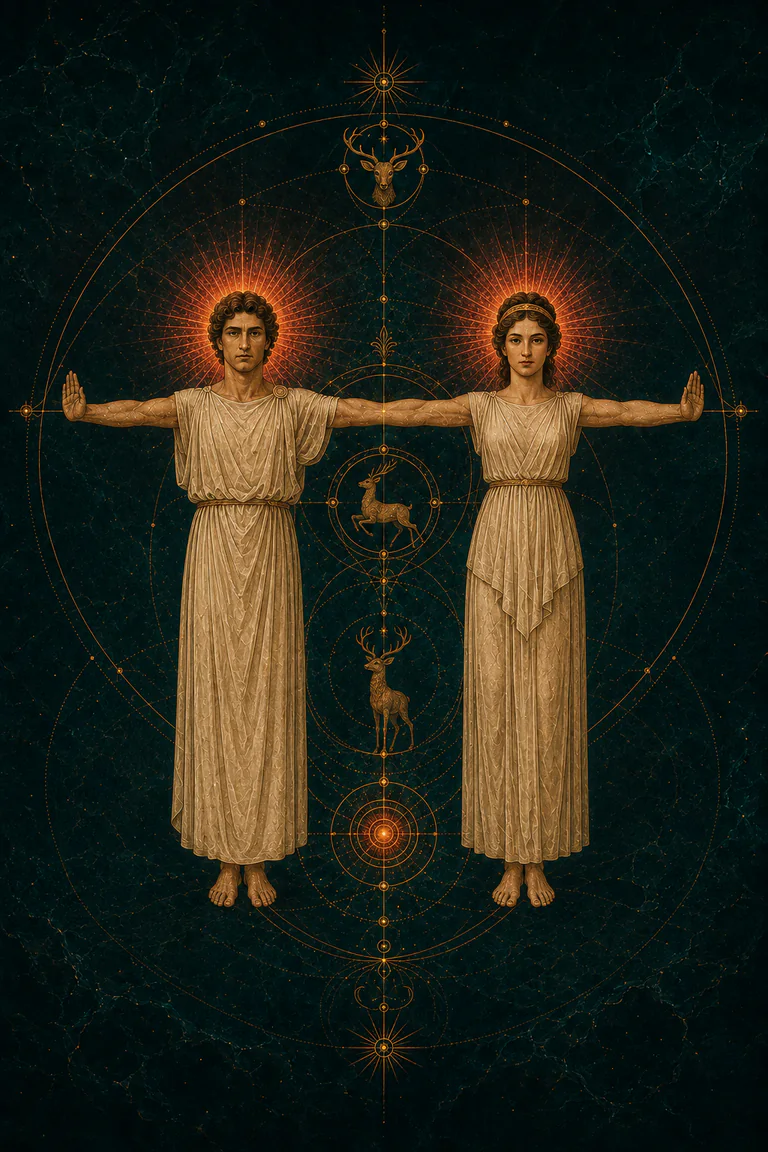
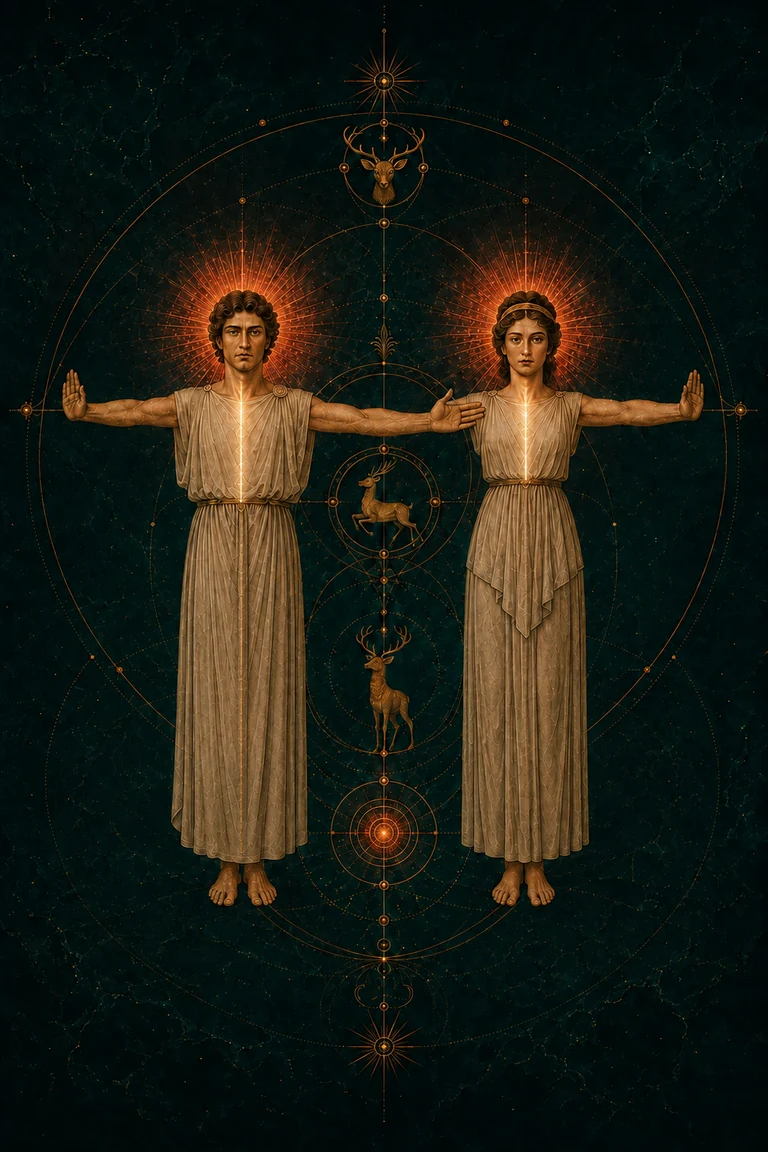
Refine Stoicheion card anatomy and highlights

diff --git a/app/StoicheionView.tsx b/app/StoicheionView.tsx
@@ -24,6 +24,7 @@ import {
 } from "./cloud-sync";
 
 const LOCAL_DRAW_STORAGE_PREFIX = "genesis-stoicheion-draws-v2:";
+const STOICHEION_CARD_ART_VERSION = "20260906-anatomy-glow";
 const INITIAL_ENTROPY = 0x9e3779b9;
 
 type ClientDrawRecord = StoicheionDrawRecord & { localDeadline: number };
@@ -300,7 +301,7 @@ function StoicheionCardFace({
       {/* eslint-disable-next-line @next/next/no-img-element */}
       <img
         className="stoicheion-card-artwork"
-        src={`/stoicheion-cards/${letter.id}.webp`}
+        src={`/stoicheion-cards/${letter.id}.webp?v=${STOICHEION_CARD_ART_VERSION}`}
         alt=""
         draggable={false}
         loading={variant === "daily" || variant === "dialog" ? "eager" : "lazy"}
